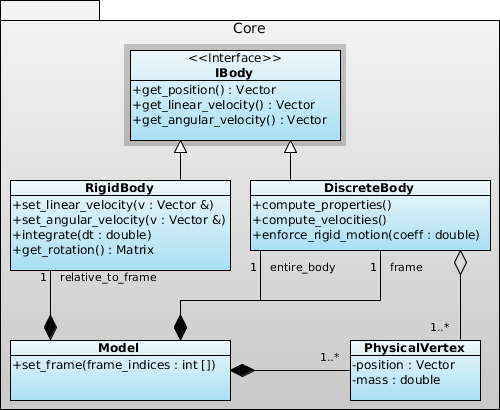
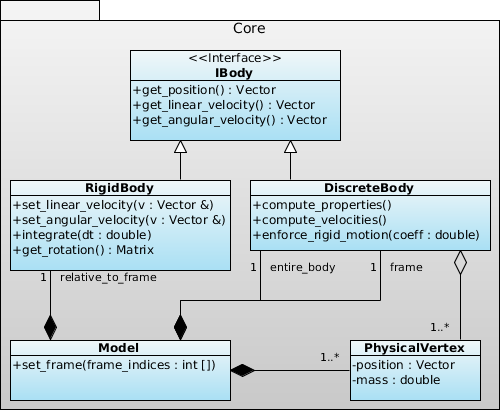
Дописал программную реализацию.
Пофиксил картинки

Changed region(s): [[0.24, 0.0878, 0.69, 0.3805]]

diff --git a/february_report/src/base.tex b/february_report/src/base.tex
@@ -420,7 +420,7 @@
         цилиндрическая область и~др.), а~необходимые в~конкретном случае более сложные области
         пользователь системы может реализовать в производном классе.
 
-      \subsubsection{Обнаружение произошедших событий}
+      \subsubsection{Обнаружение произошедших событий}\label{sssec:events}
 
         Система может обнаружить следующие виды событий.
         \begin{enumerate}
@@ -474,7 +474,7 @@
         С~каждым физическим объектом связан массив указателей на базовый класс реакции каждого типа,
         куда пользователь системы добавляет указатели на экземпляры своих классов реакций.
 
-      \subsubsection{Поддержка высокополигональных сеток}
+      \subsubsection{Поддержка высокополигональных сеток}\label{sssec:hi-poly}
 
         \paragraph{Преобразование позиций.}
         Отображение деформаций низкополигональной физической модели объекта на высокополигональную
@@ -558,8 +558,9 @@
       избежание конфликтов с одноимёнными классами в приложении, использующем систему.
 
       \subsubsection{Подсистема журналирования и обработки ошибок}
-        \includefigure{logging}{структура подсистемы журналирования и обработки ошибок}
+        \includefigure{logging}{структура подсистемы журналирования и обработки ошибок.}
 
+        Схема подсистемы показана на рис. \ref{fig:logging}.
         Основной класс этой подсистемы, Logger, реализует шаблон проектирования <<Одиночка>> (англ.
         \eng{singleton}), что обеспечивает работу с одним и тем же объектом по всей системе без
         необходимости передачи его по всей цепочке вызовов. Чисто виртуальный класс Action
@@ -568,9 +569,9 @@
         умолчанию, пользователь же может определить своё в~классе, производном от Action. Класс
         Logger содержит следующие методы.
         \begin{enumerate}
-          \item определение действия для конкретного события: метод set\_action.
-          \item отключение реакции на конкретное событие: метод ignore.
-          \item вызов действия: метод invoke.
+          \item Определение действия для конкретного события: метод set\_action.
+          \item Отключение реакции на конкретное событие: метод ignore.
+          \item Вызов действия: метод invoke.
         \end{enumerate}
 
       \subsubsection{Подсистема математических расчётов}
@@ -591,7 +592,7 @@
         \eng{Jacobi rotation})~--- быстрым приближенным итеративным методом \cite{fortran-jacobi}.
 
         \paragraph{Вычисление функции от матрицы.}
-        Для вычисления функции от матрицы она диагонализируется, после чего функция применяется к
+        Для вычисления функции от матрицы она диагонализуется, после чего функция применяется к
         диагональным элементам и матрица преобразуется обратно в исходный базис.
 
         \paragraph{Полярное разложение.}
@@ -604,8 +605,71 @@
         Здесь используется описанная выше функция вычисления функции от матрицы: в качестве функции
         выступает квадратный корень.
 
-    \subsubsection{Ядро системы}
-        \includefigure{core-vertices}{представление моделируемого объекта в системе}
+      \subsubsection{Ядро системы}
+
+        \includefigure{core-vertices}{представление моделируемого объекта в системе.}
+
+        Основным классом подсистемы является Model, физическая модель деформируемого объекта.
+        Физическая конфигурация (форма и распределение массы) и отображаемая форма описываются
+        массивами вершин соответствующих классов: PhysicalVertex и GraphicalVertex. Оба вида вершин
+        группируются в~кластеры, за что отвечает класс Cluster. Как уже говорилось в
+        п.~\ref{sssec:hi-poly}, описатель вершины, объект класса VertexInfo, используется для
+        конвертации вершин из формата, используемого в~приложении, во внутренний формат и обратно.
+
+        \includefigure{core-interaction}{получение информации о внешних воздействиях.}
+
+        Информация о~внешних воздействиях может быть сообщена объекту двумя способами. Во-первых,
+        функция Model::hit мгновенно изменяет скорость вершин, входящих в~заданную область. Область
+        задаётся объектом класса, производного IRegion, в~котором определён метод contains,
+        возвращающий true, если данная точка принадлежит области. Другой способ~--- передать массив указателей
+        на экземпляры классов-наследников Force, описывающих приложенные к объекту силы, в~функцию
+        Model::compute\_next\_step, выполняющую вычисление очередного шага алгоритма. Действие этих
+        сил будет учтено при интегрировании скоростей. Для создания собственной реализации силы,
+        необходимо в~классе, производном от Force определить метод is\_applied\_to, определяющий,
+        приложена ли сила к~вершине, находящейся в данной точке, и метод get\_value\_at,
+        возвращающий вектор силы в этой точке.
+
+        \includefigure{core-bodies}{расчёт и интегрирование характеристик объекта как целого.}
+
+        Как уже упоминалось в п.~\ref{sssec:proposed_changes} и п.~\ref{sssec:events}, в~процессе
+        моделирования возникает необходимость в~определении усреднённых линейной и угловой скоростей
+        объекта и рамы и в последующем интегрировании этих скоростей. Первую задачу решает класс
+        DiscreteBody, вторую~--- RigidBody. Также DiscreteBody отвечает за демпфирование колебаний
+        объекта и обеспечение движения рамы как твёрдого тела, позволяя привести скорости всех
+        входящих в него вершин к вычисленным усреднённым величинам (строго или с~некоторым
+        коэффициентом).
+
+        \includefigure{core-reactions}{определение реакции на события.}
+
+        Реакции на три вида поддерживаемых событий: удар в~заданное множество вершин, отклонение от
+        начальной формы и вход в~заданную область~--- определяются в~методе invoke класса,
+        производного, от одного из базовых: HitReaction, ShapeDeformationReaction или RegionReaction
+        соответственно. Каждый из этих классов содержит параметры отслеживаемого события, которые
+        необходимо передать в~его конструктор. Для HitReaction это пороговая абсолютная величина
+        изменения скорости вершины при ударе и множество вершин, заданное набором индексов вершин
+        в~массиве, в котором они были переданы в~объект при его инициализации. Параметрами для
+        реакции на изменение формы являются множество вершин, заданное аналогичным образом, и минимальное
+        отклонение позиции вершины от начальной позиции, при котором событие считается произошедшим.
+        RegionReaction хранит в себе указатель на IRegion, также при создании можно указать, что
+        является событием: вход в заданную этим указателем область или выход из неё.
+
+        \paragraph{Использование.}
+        Таким образом, типичный сценарий работы с~классом Model следующий. Инициализация:
+        \begin{enumerate}
+          \item Создание экземпляра: в конструктор передаются исходные массивы физических и
+          отображаемых вершин, их описатели (VertexInfo), а также параметры разбиения на кластеры:
+          их число по каждой из координатных осей и степень перекрытия.
+          \item Задание недеформируемой рамы: метод set\_frame.
+          \item Определение реакций на события: методы add\_hit\_reaction,\\
+          add\_shape\_deformation\_reaction и add\_region\_reaction (не были показаны на диаграммах
+          для краткости).
+        \end{enumerate}
+        В теле основного цикла:
+        \begin{enumerate}
+          \item Сообщение об ударе: метод hit.
+          \item Расчёт шага алгоритма: метод compute\_next\_step.
+          \item Обновление отображаемой сетки: метод update\_vertices.
+        \end{enumerate}
 
     \subsection{Тестирование}
 
